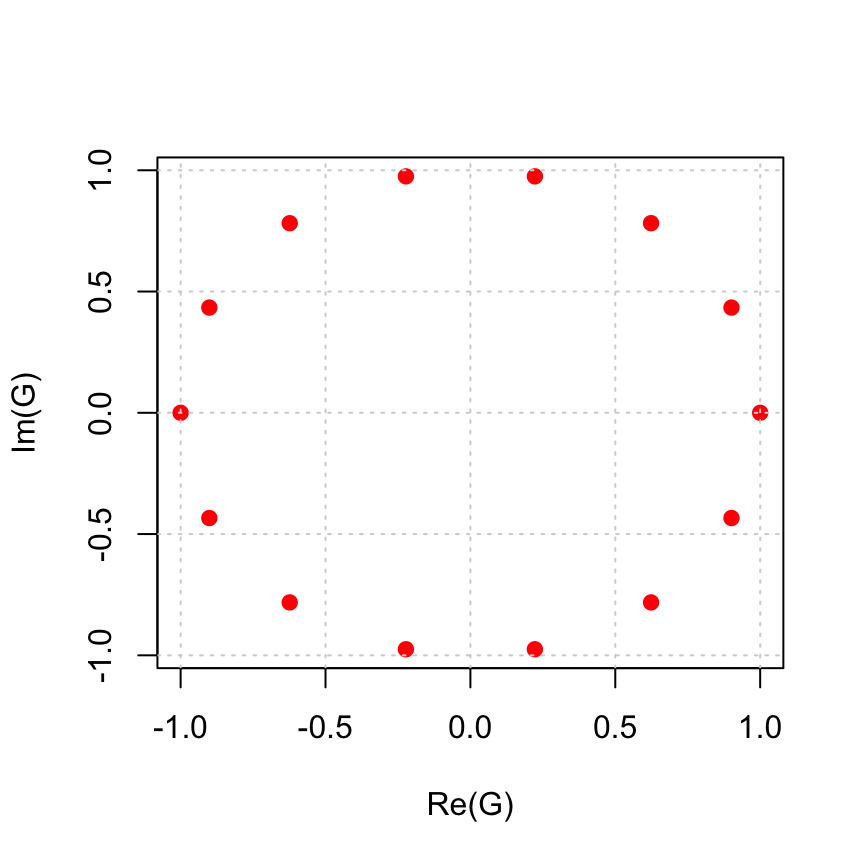
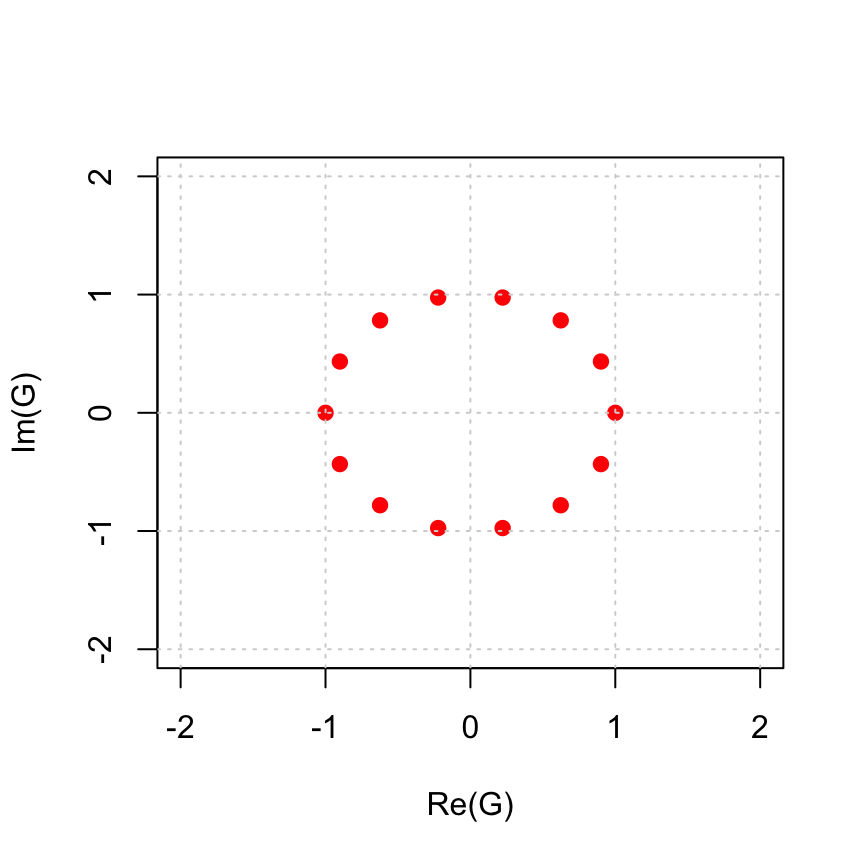
update ps1

diff --git a/docs/problem-set-1.html b/docs/problem-set-1.html
@@ -131,7 +131,7 @@ code span.wa { color: #008000; font-weight: bold; } /* Warning */
 <li class="part"><span><b>I Problem Sets</b></span></li>
 <li class="chapter" data-level="1" data-path="problem-set-1.html"><a href="problem-set-1.html"><i class="fa fa-check"></i><b>1</b> Problem Set 1</a><ul>
 <li class="chapter" data-level="1.1" data-path="problem-set-1.html"><a href="problem-set-1.html#modular-multiplication"><i class="fa fa-check"></i><b>1.1</b> Modular Multiplication</a></li>
-<li class="chapter" data-level="1.2" data-path="problem-set-1.html"><a href="problem-set-1.html#group-of-units-u_n-mod-n"><i class="fa fa-check"></i><b>1.2</b> Group of Units <span class="math inline">\(U_n\)</span> mod n</a></li>
+<li class="chapter" data-level="1.2" data-path="problem-set-1.html"><a href="problem-set-1.html#group-of-units-un-mod-n"><i class="fa fa-check"></i><b>1.2</b> Group of Units <span class="math inline">\(U(n)\)</span> mod n</a></li>
 <li class="chapter" data-level="1.3" data-path="problem-set-1.html"><a href="problem-set-1.html#two-by-two-mod-2"><i class="fa fa-check"></i><b>1.3</b> Two-by-two mod 2</a></li>
 <li class="chapter" data-level="1.4" data-path="problem-set-1.html"><a href="problem-set-1.html#outer-cancellation"><i class="fa fa-check"></i><b>1.4</b> Outer Cancellation</a></li>
 <li class="chapter" data-level="1.5" data-path="problem-set-1.html"><a href="problem-set-1.html#distributing-powers"><i class="fa fa-check"></i><b>1.5</b> Distributing Powers</a></li>
@@ -192,7 +192,7 @@ code span.wa { color: #008000; font-weight: bold; } /* Warning */
 </ul>
 <div id="modular-multiplication" class="section level2">
 <h2><span class="header-section-number">1.1</span> Modular Multiplication</h2>
-<p>Make the <em>multiplication</em> tables of the following sets and determine which of them are groups under multiplication. You can do this by hand (encouraged to get the feel for it) or using the R commands in [Modular Arithemtic].</p>
+<p>Make the <em>multiplication</em> tables of the following sets and determine which of them are groups under multiplication. You can do this by hand (encouraged to get the feel for it) or using the R commands in <a href="modular-arithmetic.html#modular-arithmetic">Modular Arithmetic</a>.</p>
 <ol style="list-style-type: lower-alpha">
 <li><span class="math inline">\(\{1,2,3\}\)</span> using multiplication mod 4</li>
 <li><span class="math inline">\(\{1,2,3,4\}\)</span> using multiplication mod 5</li>
@@ -200,20 +200,20 @@ code span.wa { color: #008000; font-weight: bold; } /* Warning */
 <li><span class="math inline">\(\{5,15,25,35\}\)</span> using multiplication mod 40</li>
 </ol>
 </div>
-<div id="group-of-units-u_n-mod-n" class="section level2">
-<h2><span class="header-section-number">1.2</span> Group of Units <span class="math inline">\(U_n\)</span> mod n</h2>
-<p>Let <span class="math inline">\(U_n = \{1 \le k &lt; n \mid 1 = \gcd(k,n) \}\)</span>. These are the elements of <span class="math inline">\(\mathbb{Z}_n\)</span> that are relatively prime to <span class="math inline">\(n\)</span>. Note: the book denotes this by <span class="math inline">\(U(n)\)</span>. In this problem, we will explore this set and <em>prove</em> that it is a group. Notice: by definition <span class="math inline">\(U_n\)</span> has the multiplicative identity 1, since <span class="math inline">\(gcd(1,n) = 1\)</span>. And, multiplication mod n is associative. So, we need to make sure it is a binary operation on <span class="math inline">\(U_n\)</span> and that <span class="math inline">\(U_n\)</span> is closed under taking inverses.</p>
+<div id="group-of-units-un-mod-n" class="section level2">
+<h2><span class="header-section-number">1.2</span> Group of Units <span class="math inline">\(U(n)\)</span> mod n</h2>
+<p>Let <span class="math inline">\(U(n) = \{1 \le k &lt; n \mid 1 = \gcd(k,n) \}\)</span>. These are the elements of <span class="math inline">\(\mathbb{Z}_n\)</span> that are relatively prime to <span class="math inline">\(n\)</span>. In this problem, we will explore this set and <em>prove</em> that it is a group. Notice: by definition <span class="math inline">\(U(n)\)</span> has the multiplicative identity 1, since <span class="math inline">\(gcd(1,n) = 1\)</span>. And, multiplication mod n is associative. So, we need to make sure it is a binary operation on <span class="math inline">\(U(n)\)</span> and that <span class="math inline">\(U(n)\)</span> is closed under taking inverses.</p>
 <ol style="list-style-type: lower-alpha">
-<li><p>Compute the sets <span class="math inline">\(U_6,U_7,U_8\)</span>.</p></li>
+<li><p>Compute the sets <span class="math inline">\(U(6),U(7),U(8)\)</span>.</p></li>
 <li><p>Use the R-code in <a href="modular-arithmetic.html#modular-arithmetic">Modular Arithmetic</a> to do the following (you can do it by hand if you prefer).</p>
 <ol style="list-style-type: lower-roman">
-<li>Make the multiplication tables of <span class="math inline">\(\mathbb{Z}_8\)</span> and <span class="math inline">\(U_8\)</span> mod 8.</li>
-<li>Make the multiplication table of <span class="math inline">\(U_9\)</span>.</li>
-<li>Make the multiplication table of <span class="math inline">\(U_{14}\)</span>.</li>
+<li>Make the multiplication tables of <span class="math inline">\(\mathbb{Z}_8\)</span> and <span class="math inline">\(U(8)\)</span> mod 8.</li>
+<li>Make the multiplication table of <span class="math inline">\(U(9)\)</span>.</li>
+<li>Make the multiplication table of <span class="math inline">\(U(14)\)</span>.</li>
 </ol></li>
-<li><p>Show that if <span class="math inline">\(a \in U_n\)</span> then <span class="math inline">\(a\)</span> has a multiplicative <strong>inverse</strong> in <span class="math inline">\(U_n\)</span>. Hint: use the Extended GCD from Chapter 0, the cyclic groups voicethread, and <a href="modular-arithmetic.html#modular-arithmetic">Modular Arithmetic</a>.</p></li>
-<li><p>Show that <span class="math inline">\(U_n\)</span> is closed under multiplication. That is if <span class="math inline">\(a, b \in U_n\)</span>, then <span class="math inline">\(ab \in U_n\)</span>. This shows that multiplication mod <span class="math inline">\(n\)</span> is a <strong>binary operation</strong> <em>on</em> <span class="math inline">\(U_n\)</span>. Hint 1: if <span class="math inline">\(a\)</span> is invertible mod n and <span class="math inline">\(b\)</span> is invertible mod n, then must <span class="math inline">\(ab\)</span> be invertible mod <span class="math inline">\(n\)</span>. Hint 2: think about your shoes and socks.</p></li>
-<li><p>Are <span class="math inline">\(U_8\)</span>, <span class="math inline">\(U_9\)</span>, and/or <span class="math inline">\(U_{14}\)</span> cyclic? Justify your answers.</p></li>
+<li><p>Show that if <span class="math inline">\(a \in U(n)\)</span> then <span class="math inline">\(a\)</span> has a multiplicative <strong>inverse</strong> in <span class="math inline">\(U(n)\)</span>. Hint: use the Extended GCD from Chapter 0, the cyclic groups voicethread, and <a href="modular-arithmetic.html#modular-arithmetic">Modular Arithmetic</a>.</p></li>
+<li><p>Show that <span class="math inline">\(U(n)\)</span> is closed under multiplication. That is if <span class="math inline">\(a, b \in U(n)\)</span>, then <span class="math inline">\(ab \in U(n)\)</span>. This shows that multiplication mod <span class="math inline">\(n\)</span> is a <strong>binary operation</strong> <em>on</em> <span class="math inline">\(U(n)\)</span>. Hint 1: if <span class="math inline">\(a\)</span> is invertible mod n and <span class="math inline">\(b\)</span> is invertible mod n, then must <span class="math inline">\(ab\)</span> be invertible mod <span class="math inline">\(n\)</span>. Hint 2: think about your shoes and socks.</p></li>
+<li><p>Are <span class="math inline">\(U(8)\)</span>, <span class="math inline">\(U(9)\)</span>, and/or <span class="math inline">\(U(14)\)</span> cyclic? Justify your answers.</p></li>
 </ol>
 </div>
 <div id="two-by-two-mod-2" class="section level2">
@@ -265,7 +265,7 @@ Compute the elements of the following cyclic subgroups.</p>
 <li><span class="math inline">\(\langle 5 \rangle \le \mathbb{Z}\)</span></li>
 <li><span class="math inline">\(\langle 5 \rangle \le \mathbb{Z}_{30}\)</span></li>
 <li><span class="math inline">\(\langle 5 \rangle \le \mathbb{R}^\ast\)</span></li>
-<li><span class="math inline">\(\langle 5 \rangle \le U_{28}\)</span></li>
+<li><span class="math inline">\(\langle 5 \rangle \le U({28})\)</span></li>
 <li><span class="math inline">\(\langle (\frac{\sqrt{2}}{2} + \frac{\sqrt{2}}{2}i) \rangle \le \mathbb{C}^\ast\)</span></li>
 </ol>
 

diff --git a/docs/complex-n-th-roots-of-unity.html b/docs/complex-n-th-roots-of-unity.html
@@ -131,7 +131,7 @@ code span.wa { color: #008000; font-weight: bold; } /* Warning */
 <li class="part"><span><b>I Problem Sets</b></span></li>
 <li class="chapter" data-level="1" data-path="problem-set-1.html"><a href="problem-set-1.html"><i class="fa fa-check"></i><b>1</b> Problem Set 1</a><ul>
 <li class="chapter" data-level="1.1" data-path="problem-set-1.html"><a href="problem-set-1.html#modular-multiplication"><i class="fa fa-check"></i><b>1.1</b> Modular Multiplication</a></li>
-<li class="chapter" data-level="1.2" data-path="problem-set-1.html"><a href="problem-set-1.html#group-of-units-u_n-mod-n"><i class="fa fa-check"></i><b>1.2</b> Group of Units <span class="math inline">\(U_n\)</span> mod n</a></li>
+<li class="chapter" data-level="1.2" data-path="problem-set-1.html"><a href="problem-set-1.html#group-of-units-un-mod-n"><i class="fa fa-check"></i><b>1.2</b> Group of Units <span class="math inline">\(U(n)\)</span> mod n</a></li>
 <li class="chapter" data-level="1.3" data-path="problem-set-1.html"><a href="problem-set-1.html#two-by-two-mod-2"><i class="fa fa-check"></i><b>1.3</b> Two-by-two mod 2</a></li>
 <li class="chapter" data-level="1.4" data-path="problem-set-1.html"><a href="problem-set-1.html#outer-cancellation"><i class="fa fa-check"></i><b>1.4</b> Outer Cancellation</a></li>
 <li class="chapter" data-level="1.5" data-path="problem-set-1.html"><a href="problem-set-1.html#distributing-powers"><i class="fa fa-check"></i><b>1.5</b> Distributing Powers</a></li>
@@ -186,12 +186,25 @@ code span.wa { color: #008000; font-weight: bold; } /* Warning */
 <span id="cb56-3"><a href="complex-n-th-roots-of-unity.html#cb56-3"></a>w =<span class="st"> </span><span class="kw">exp</span>(<span class="dv">2</span><span class="op">*</span>pi<span class="op">*</span>ii<span class="op">/</span>n)</span>
 <span id="cb56-4"><a href="complex-n-th-roots-of-unity.html#cb56-4"></a>G =<span class="st"> </span>w<span class="op">^</span>(<span class="dv">0</span><span class="op">:</span>(n<span class="dv">-1</span>))</span>
 <span id="cb56-5"><a href="complex-n-th-roots-of-unity.html#cb56-5"></a>G</span></code></pre></div>
-<pre><code>##  [1]  1.0000000+0.0000000i  0.9009689+0.4338837i  0.6234898+0.7818315i  0.2225209+0.9749279i -0.2225209+0.9749279i
-##  [6] -0.6234898+0.7818315i -0.9009689+0.4338837i -1.0000000+0.0000000i -0.9009689-0.4338837i -0.6234898-0.7818315i
-## [11] -0.2225209-0.9749279i  0.2225209-0.9749279i  0.6234898-0.7818315i  0.9009689-0.4338837i</code></pre>
-<div class="sourceCode" id="cb58"><pre class="sourceCode r"><code class="sourceCode r"><span id="cb58-1"><a href="complex-n-th-roots-of-unity.html#cb58-1"></a><span class="kw">plot</span>(<span class="kw">Re</span>(G),<span class="kw">Im</span>(G),<span class="dt">col=</span><span class="st">&#39;red&#39;</span>,<span class="dt">pch=</span><span class="dv">19</span>)</span>
+<pre><code>##  [1]  1.0000000+0.0000000i  0.9009689+0.4338837i  0.6234898+0.7818315i
+##  [4]  0.2225209+0.9749279i -0.2225209+0.9749279i -0.6234898+0.7818315i
+##  [7] -0.9009689+0.4338837i -1.0000000+0.0000000i -0.9009689-0.4338837i
+## [10] -0.6234898-0.7818315i -0.2225209-0.9749279i  0.2225209-0.9749279i
+## [13]  0.6234898-0.7818315i  0.9009689-0.4338837i</code></pre>
+<div class="sourceCode" id="cb58"><pre class="sourceCode r"><code class="sourceCode r"><span id="cb58-1"><a href="complex-n-th-roots-of-unity.html#cb58-1"></a><span class="kw">plot</span>(<span class="kw">Re</span>(G),<span class="kw">Im</span>(G),<span class="dt">col=</span><span class="st">&#39;red&#39;</span>,<span class="dt">pch=</span><span class="dv">19</span>,<span class="dt">xlim=</span><span class="kw">c</span>(<span class="op">-</span><span class="dv">2</span>,<span class="dv">2</span>),<span class="dt">ylim=</span><span class="kw">c</span>(<span class="op">-</span><span class="dv">2</span>,<span class="dv">2</span>))</span>
 <span id="cb58-2"><a href="complex-n-th-roots-of-unity.html#cb58-2"></a><span class="kw">grid</span>()</span></code></pre></div>
 <p><img src="math376_handbook_files/figure-html/unnamed-chunk-22-1.png" width="432" /></p>
+<div class="sourceCode" id="cb59"><pre class="sourceCode r"><code class="sourceCode r"><span id="cb59-1"><a href="complex-n-th-roots-of-unity.html#cb59-1"></a>n =<span class="st"> </span><span class="dv">17</span></span>
+<span id="cb59-2"><a href="complex-n-th-roots-of-unity.html#cb59-2"></a>ii =<span class="st"> </span><span class="dv">0</span><span class="op">+</span>1i</span>
+<span id="cb59-3"><a href="complex-n-th-roots-of-unity.html#cb59-3"></a>w =<span class="st"> </span><span class="fl">1.02</span><span class="op">*</span><span class="kw">exp</span>(<span class="dv">2</span><span class="op">*</span>pi<span class="op">*</span>ii<span class="op">/</span>n)</span>
+<span id="cb59-4"><a href="complex-n-th-roots-of-unity.html#cb59-4"></a>G =<span class="st"> </span>w<span class="op">^</span>(<span class="op">-</span><span class="dv">50</span><span class="op">:</span><span class="dv">100</span>)</span>
+<span id="cb59-5"><a href="complex-n-th-roots-of-unity.html#cb59-5"></a><span class="kw">plot</span>(<span class="kw">Re</span>(G),<span class="kw">Im</span>(G),<span class="dt">col=</span><span class="st">&#39;gray&#39;</span>,<span class="dt">xlim=</span><span class="kw">c</span>(<span class="op">-</span><span class="dv">2</span>,<span class="dv">2</span>),<span class="dt">ylim=</span><span class="kw">c</span>(<span class="op">-</span><span class="dv">2</span>,<span class="dv">2</span>),<span class="dt">type=</span><span class="st">&#39;l&#39;</span>)</span>
+<span id="cb59-6"><a href="complex-n-th-roots-of-unity.html#cb59-6"></a><span class="kw">grid</span>()</span>
+<span id="cb59-7"><a href="complex-n-th-roots-of-unity.html#cb59-7"></a>tt =<span class="st"> </span><span class="kw">seq</span>(<span class="dv">0</span>,<span class="dv">2</span><span class="op">*</span>pi,<span class="dt">length=</span><span class="dv">1000</span>)</span>
+<span id="cb59-8"><a href="complex-n-th-roots-of-unity.html#cb59-8"></a></span>
+<span id="cb59-9"><a href="complex-n-th-roots-of-unity.html#cb59-9"></a><span class="kw">points</span>(<span class="kw">Re</span>(G),<span class="kw">Im</span>(G),<span class="dt">col=</span><span class="st">&#39;orange&#39;</span>,<span class="dt">pch=</span><span class="dv">19</span>)</span>
+<span id="cb59-10"><a href="complex-n-th-roots-of-unity.html#cb59-10"></a><span class="kw">points</span>(<span class="kw">Re</span>(w),<span class="kw">Im</span>(w),<span class="dt">pch=</span><span class="dv">19</span>,<span class="dt">col=</span><span class="st">&#39;blue&#39;</span>)</span></code></pre></div>
+<p><img src="math376_handbook_files/figure-html/unnamed-chunk-23-1.png" width="432" /></p>
 
 </div>
             </section>

diff --git a/docs/important-definitions-and-theorems.html b/docs/important-definitions-and-theorems.html
@@ -131,7 +131,7 @@ code span.wa { color: #008000; font-weight: bold; } /* Warning */
 <li class="part"><span><b>I Problem Sets</b></span></li>
 <li class="chapter" data-level="1" data-path="problem-set-1.html"><a href="problem-set-1.html"><i class="fa fa-check"></i><b>1</b> Problem Set 1</a><ul>
 <li class="chapter" data-level="1.1" data-path="problem-set-1.html"><a href="problem-set-1.html#modular-multiplication"><i class="fa fa-check"></i><b>1.1</b> Modular Multiplication</a></li>
-<li class="chapter" data-level="1.2" data-path="problem-set-1.html"><a href="problem-set-1.html#group-of-units-u_n-mod-n"><i class="fa fa-check"></i><b>1.2</b> Group of Units <span class="math inline">\(U_n\)</span> mod n</a></li>
+<li class="chapter" data-level="1.2" data-path="problem-set-1.html"><a href="problem-set-1.html#group-of-units-un-mod-n"><i class="fa fa-check"></i><b>1.2</b> Group of Units <span class="math inline">\(U(n)\)</span> mod n</a></li>
 <li class="chapter" data-level="1.3" data-path="problem-set-1.html"><a href="problem-set-1.html#two-by-two-mod-2"><i class="fa fa-check"></i><b>1.3</b> Two-by-two mod 2</a></li>
 <li class="chapter" data-level="1.4" data-path="problem-set-1.html"><a href="problem-set-1.html#outer-cancellation"><i class="fa fa-check"></i><b>1.4</b> Outer Cancellation</a></li>
 <li class="chapter" data-level="1.5" data-path="problem-set-1.html"><a href="problem-set-1.html#distributing-powers"><i class="fa fa-check"></i><b>1.5</b> Distributing Powers</a></li>
@@ -193,6 +193,28 @@ code span.wa { color: #008000; font-weight: bold; } /* Warning */
 <p>Furthermore, the group is <strong>abelian</strong> if it also satisfies the commutative property:</p>
 <ol start="4" style="list-style-type: lower-alpha">
 <li>(Commutative) If <span class="math inline">\(a,b \in \mathsf{G}\)</span>, then <span class="math inline">\(ab = ba\)</span>.</li>
+</ol>
+<p><strong>Proposition</strong> (Uniqueness) Let <span class="math inline">\(\mathsf{G}\)</span> be a group. Then</p>
+<ol style="list-style-type: lower-alpha">
+<li><p><span class="math inline">\(\mathsf{G}\)</span> has a unique identity element <span class="math inline">\(e\)</span>.</p></li>
+<li><p>If <span class="math inline">\(a,b,c \in \mathsf{G}\)</span> and <span class="math inline">\(ab = e\)</span> and <span class="math inline">\(ca = e\)</span>, then <span class="math inline">\(a = c\)</span>.</p></li>
+<li><p>If <span class="math inline">\(g \in \mathsf{G}\)</span> then t
+here is a unique element <span class="math inline">\(g^{-1}\)</span> such that <span class="math inline">\(g g^{-1} = g^{-1} g = e\)</span>.</p></li>
+</ol>
+<p><strong>Proposition</strong> (Cancellation) Let <span class="math inline">\(\mathsf{G}\)</span> be a group and <span class="math inline">\(a,b,c \in \mathsf{G}\)</span>.</p>
+<ol style="list-style-type: lower-alpha">
+<li>If <span class="math inline">\(a b = a c\)</span> then <span class="math inline">\(b = c\)</span>.</li>
+<li>If <span class="math inline">\(b a = c a\)</span> then <span class="math inline">\(b = c\)</span>.</li>
+</ol>
+<p><strong>Proposition</strong> (<span class="math inline">\(ax =b\)</span>) Let <span class="math inline">\(\mathsf{G}\)</span> be a group and <span class="math inline">\(a,b \in \mathsf{G}\)</span>.</p>
+<ol style="list-style-type: lower-alpha">
+<li>The equation <span class="math inline">\(a x = b\)</span> has a unique solution <span class="math inline">\(x = a^{-1} b\)</span>.</li>
+<li>The equation <span class="math inline">\(x a = b\)</span> has a unique solution <span class="math inline">\(x = b a^{-1}\)</span>.</li>
+</ol>
+<p><strong>Proposition</strong> (Latin Square) Let <span class="math inline">\(\mathsf{G}\)</span> be a group and <span class="math inline">\(a \in \mathsf{G}\)</span>.</p>
+<ol style="list-style-type: lower-alpha">
+<li>The function <span class="math inline">\(\mathsf{G}\to \mathsf{G}\)</span> defined by left multiplication by <span class="math inline">\(a\)</span>, <span class="math inline">\(g \mapsto a g\)</span>, is one-to-one and onto.</li>
+<li>The function <span class="math inline">\(\mathsf{G}\to \mathsf{G}\)</span> defined by right multiplication by <span class="math inline">\(a\)</span>, <span class="math inline">\(g \mapsto g a\)</span>, is one-to-one and onto.</li>
 </ol>
 </div>
 <div id="subgroup" class="section level3">

diff --git a/docs/cyclic-groups.html b/docs/cyclic-groups.html
@@ -131,7 +131,7 @@ code span.wa { color: #008000; font-weight: bold; } /* Warning */
 <li class="part"><span><b>I Problem Sets</b></span></li>
 <li class="chapter" data-level="1" data-path="problem-set-1.html"><a href="problem-set-1.html"><i class="fa fa-check"></i><b>1</b> Problem Set 1</a><ul>
 <li class="chapter" data-level="1.1" data-path="problem-set-1.html"><a href="problem-set-1.html#modular-multiplication"><i class="fa fa-check"></i><b>1.1</b> Modular Multiplication</a></li>
-<li class="chapter" data-level="1.2" data-path="problem-set-1.html"><a href="problem-set-1.html#group-of-units-u_n-mod-n"><i class="fa fa-check"></i><b>1.2</b> Group of Units <span class="math inline">\(U_n\)</span> mod n</a></li>
+<li class="chapter" data-level="1.2" data-path="problem-set-1.html"><a href="problem-set-1.html#group-of-units-un-mod-n"><i class="fa fa-check"></i><b>1.2</b> Group of Units <span class="math inline">\(U(n)\)</span> mod n</a></li>
 <li class="chapter" data-level="1.3" data-path="problem-set-1.html"><a href="problem-set-1.html#two-by-two-mod-2"><i class="fa fa-check"></i><b>1.3</b> Two-by-two mod 2</a></li>
 <li class="chapter" data-level="1.4" data-path="problem-set-1.html"><a href="problem-set-1.html#outer-cancellation"><i class="fa fa-check"></i><b>1.4</b> Outer Cancellation</a></li>
 <li class="chapter" data-level="1.5" data-path="problem-set-1.html"><a href="problem-set-1.html#distributing-powers"><i class="fa fa-check"></i><b>1.5</b> Distributing Powers</a></li>

diff --git a/docs/index.html b/docs/index.html
@@ -131,7 +131,7 @@ code span.wa { color: #008000; font-weight: bold; } /* Warning */
 <li class="part"><span><b>I Problem Sets</b></span></li>
 <li class="chapter" data-level="1" data-path="problem-set-1.html"><a href="problem-set-1.html"><i class="fa fa-check"></i><b>1</b> Problem Set 1</a><ul>
 <li class="chapter" data-level="1.1" data-path="problem-set-1.html"><a href="problem-set-1.html#modular-multiplication"><i class="fa fa-check"></i><b>1.1</b> Modular Multiplication</a></li>
-<li class="chapter" data-level="1.2" data-path="problem-set-1.html"><a href="problem-set-1.html#group-of-units-u_n-mod-n"><i class="fa fa-check"></i><b>1.2</b> Group of Units <span class="math inline">\(U_n\)</span> mod n</a></li>
+<li class="chapter" data-level="1.2" data-path="problem-set-1.html"><a href="problem-set-1.html#group-of-units-un-mod-n"><i class="fa fa-check"></i><b>1.2</b> Group of Units <span class="math inline">\(U(n)\)</span> mod n</a></li>
 <li class="chapter" data-level="1.3" data-path="problem-set-1.html"><a href="problem-set-1.html#two-by-two-mod-2"><i class="fa fa-check"></i><b>1.3</b> Two-by-two mod 2</a></li>
 <li class="chapter" data-level="1.4" data-path="problem-set-1.html"><a href="problem-set-1.html#outer-cancellation"><i class="fa fa-check"></i><b>1.4</b> Outer Cancellation</a></li>
 <li class="chapter" data-level="1.5" data-path="problem-set-1.html"><a href="problem-set-1.html#distributing-powers"><i class="fa fa-check"></i><b>1.5</b> Distributing Powers</a></li>

diff --git a/docs/matrix-groups.html b/docs/matrix-groups.html
@@ -131,7 +131,7 @@ code span.wa { color: #008000; font-weight: bold; } /* Warning */
 <li class="part"><span><b>I Problem Sets</b></span></li>
 <li class="chapter" data-level="1" data-path="problem-set-1.html"><a href="problem-set-1.html"><i class="fa fa-check"></i><b>1</b> Problem Set 1</a><ul>
 <li class="chapter" data-level="1.1" data-path="problem-set-1.html"><a href="problem-set-1.html#modular-multiplication"><i class="fa fa-check"></i><b>1.1</b> Modular Multiplication</a></li>
-<li class="chapter" data-level="1.2" data-path="problem-set-1.html"><a href="problem-set-1.html#group-of-units-u_n-mod-n"><i class="fa fa-check"></i><b>1.2</b> Group of Units <span class="math inline">\(U_n\)</span> mod n</a></li>
+<li class="chapter" data-level="1.2" data-path="problem-set-1.html"><a href="problem-set-1.html#group-of-units-un-mod-n"><i class="fa fa-check"></i><b>1.2</b> Group of Units <span class="math inline">\(U(n)\)</span> mod n</a></li>
 <li class="chapter" data-level="1.3" data-path="problem-set-1.html"><a href="problem-set-1.html#two-by-two-mod-2"><i class="fa fa-check"></i><b>1.3</b> Two-by-two mod 2</a></li>
 <li class="chapter" data-level="1.4" data-path="problem-set-1.html"><a href="problem-set-1.html#outer-cancellation"><i class="fa fa-check"></i><b>1.4</b> Outer Cancellation</a></li>
 <li class="chapter" data-level="1.5" data-path="problem-set-1.html"><a href="problem-set-1.html#distributing-powers"><i class="fa fa-check"></i><b>1.5</b> Distributing Powers</a></li>

diff --git a/docs/modular-arithmetic.html b/docs/modular-arithmetic.html
@@ -131,7 +131,7 @@ code span.wa { color: #008000; font-weight: bold; } /* Warning */
 <li class="part"><span><b>I Problem Sets</b></span></li>
 <li class="chapter" data-level="1" data-path="problem-set-1.html"><a href="problem-set-1.html"><i class="fa fa-check"></i><b>1</b> Problem Set 1</a><ul>
 <li class="chapter" data-level="1.1" data-path="problem-set-1.html"><a href="problem-set-1.html#modular-multiplication"><i class="fa fa-check"></i><b>1.1</b> Modular Multiplication</a></li>
-<li class="chapter" data-level="1.2" data-path="problem-set-1.html"><a href="problem-set-1.html#group-of-units-u_n-mod-n"><i class="fa fa-check"></i><b>1.2</b> Group of Units <span class="math inline">\(U_n\)</span> mod n</a></li>
+<li class="chapter" data-level="1.2" data-path="problem-set-1.html"><a href="problem-set-1.html#group-of-units-un-mod-n"><i class="fa fa-check"></i><b>1.2</b> Group of Units <span class="math inline">\(U(n)\)</span> mod n</a></li>
 <li class="chapter" data-level="1.3" data-path="problem-set-1.html"><a href="problem-set-1.html#two-by-two-mod-2"><i class="fa fa-check"></i><b>1.3</b> Two-by-two mod 2</a></li>
 <li class="chapter" data-level="1.4" data-path="problem-set-1.html"><a href="problem-set-1.html#outer-cancellation"><i class="fa fa-check"></i><b>1.4</b> Outer Cancellation</a></li>
 <li class="chapter" data-level="1.5" data-path="problem-set-1.html"><a href="problem-set-1.html#distributing-powers"><i class="fa fa-check"></i><b>1.5</b> Distributing Powers</a></li>
